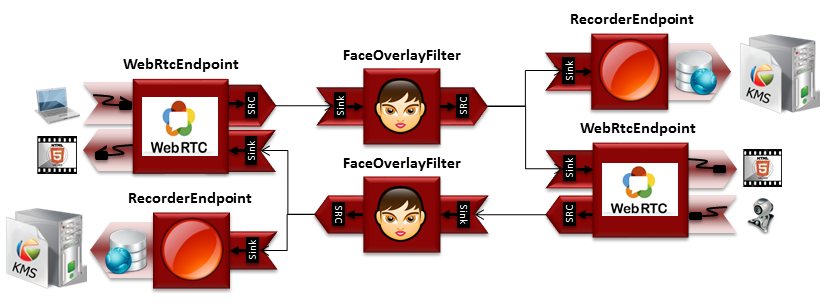
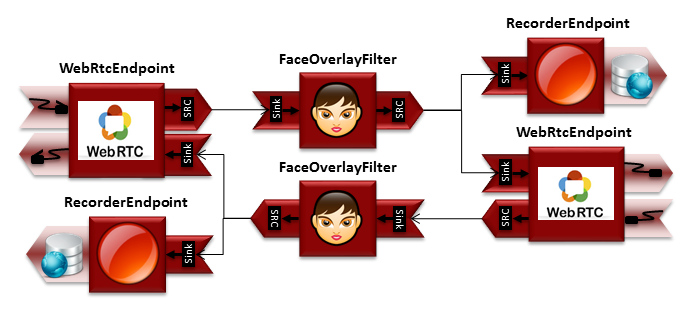
Updated pipelines diagrams and GitHub URLs (to master)

diff --git a/kurento-one2one-call-advanced/src/main/resources/static/index.html b/kurento-one2one-call-advanced/src/main/resources/static/index.html
@@ -47,7 +47,7 @@
 					id="bs-example-navbar-collapse-1">
 					<ul class="nav navbar-nav navbar-right">
 						<li><a
-							href="https://github.com/Kurento/kurento-tutorial-java/tree/develop/kurento-one2one-call-advanced"><span
+							href="https://github.com/Kurento/kurento-tutorial-java/tree/master/kurento-one2one-call-advanced"><span
 								class="glyphicon glyphicon-file"></span> Source Code</a></li>
 					</ul>
 				</div>
@@ -74,7 +74,7 @@
 				the Kurento Media Server. Then, a <a href="./img/pipeline2.png"
 					data-toggle="lightbox"
 					data-title="Advanced Video Call 1 to 1, Second Media Pipeline"
-					data-footer="A PlayerEndpoint (reading the recorded file in the Kurento Media Server) connecrted to a WebRtcEnpoint">second
+					data-footer="A PlayerEndpoint (reading the recorded file in the Kurento Media Server) connected to a WebRtcEnpoint">second
 					Media Pipeline</a> is used to play the recorded media. To run this demo
 				follow these steps:
 			</p>

diff --git a/kurento-one2many-call/src/main/resources/static/index.html b/kurento-one2many-call/src/main/resources/static/index.html
@@ -45,7 +45,7 @@
 					id="bs-example-navbar-collapse-1">
 					<ul class="nav navbar-nav navbar-right">
 						<li><a
-							href="https://github.com/Kurento/kurento-tutorial-java/tree/develop/kurento-one2many-call"><span
+							href="https://github.com/Kurento/kurento-tutorial-java/tree/master/kurento-one2many-call"><span
 								class="glyphicon glyphicon-file"></span> Source Code</a></li>
 					</ul>
 				</div>

diff --git a/kurento-magic-mirror/src/main/resources/static/index.html b/kurento-magic-mirror/src/main/resources/static/index.html
@@ -46,7 +46,7 @@
 					id="bs-example-navbar-collapse-1">
 					<ul class="nav navbar-nav navbar-right">
 						<li><a
-							href="https://github.com/Kurento/kurento-tutorial-java/tree/develop/kurento-magic-mirror"><span
+							href="https://github.com/Kurento/kurento-tutorial-java/tree/master/kurento-magic-mirror"><span
 								class="glyphicon glyphicon-file"></span> Source Code</a></li>
 					</ul>
 				</div>

diff --git a/kurento-one2one-call/src/main/resources/static/index.html b/kurento-one2one-call/src/main/resources/static/index.html
@@ -46,7 +46,7 @@
 					id="bs-example-navbar-collapse-1">
 					<ul class="nav navbar-nav navbar-right">
 						<li><a
-							href="https://github.com/Kurento/kurento-tutorial-java/tree/develop/kurento-one2one-call"><span
+							href="https://github.com/Kurento/kurento-tutorial-java/tree/master/kurento-one2one-call"><span
 								class="glyphicon glyphicon-file"></span> Source Code</a></li>
 					</ul>
 				</div>

diff --git a/kurento-hello-world/src/resources/static/index.html b/kurento-hello-world/src/resources/static/index.html
@@ -46,7 +46,7 @@
 					id="bs-example-navbar-collapse-1">
 					<ul class="nav navbar-nav navbar-right">
 						<li><a
-							href="https://github.com/Kurento/kurento-tutorial-java/tree/develop/kurento-hello-world"><span
+							href="https://github.com/Kurento/kurento-tutorial-java/tree/master/kurento-hello-world"><span
 								class="glyphicon glyphicon-file"></span> Source Code</a></li>
 					</ul>
 				</div>
